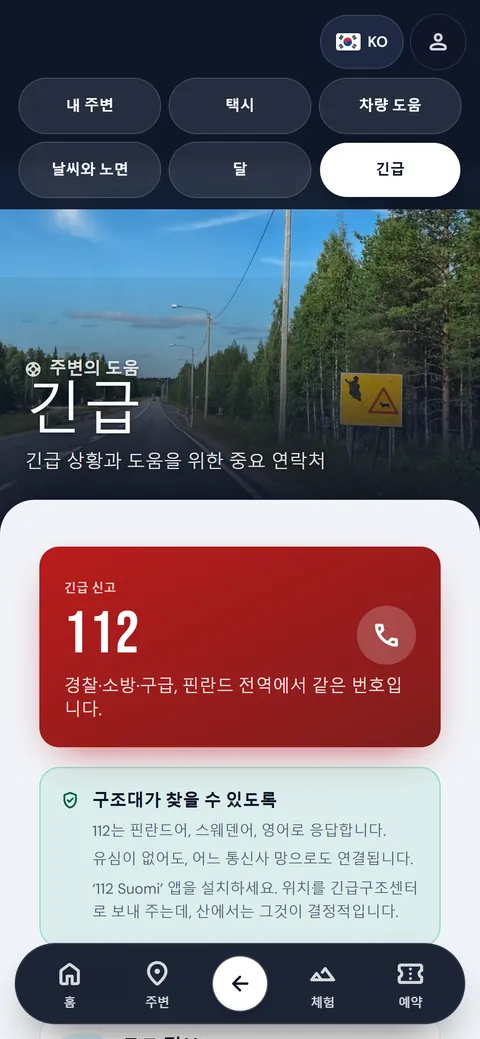
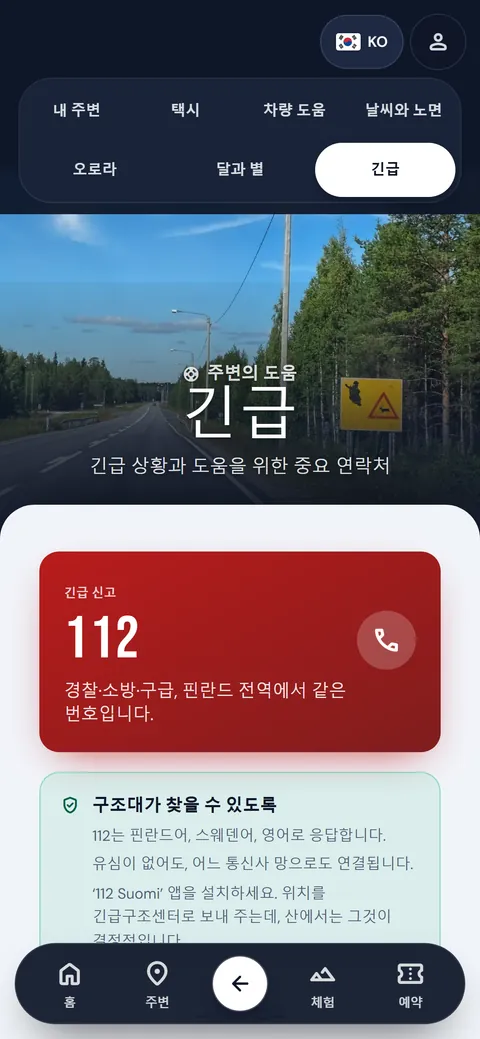
Appimainos: korean kuvat uudelleen, korea katkeaa vain sanojen välistä (SHOTS_V c1182a5a)
Appin korean rivinvaihto osui kahden hangul-tavun väliin 1 452 kertaa 15 näkymässä
(esim. "라플란드 전 / 통"); appi korjattu (00cd290, word-break: keep-all) ja korean
kuvat kaapattu uudelleen (lv-ops main a7fec074). rollout_apppromo.mjs.

diff --git a/src/shared/EcosystemMenu.tsx b/src/shared/EcosystemMenu.tsx
@@ -90,7 +90,7 @@ const APP_URL = 'https://app.laplandvibes.com/?install=1&utm_source=web&utm_medi
 // ?v= = appimainoksen kuvien tiiviste (shared/appPromo/screens.ts SHOTS_V). Kirjaimellinen rivi eikä tuonti: prebuild-sync
 // päivittää tämän tiedoston myös sivustoille, joilla src/shared/appPromo/ ei vielä ole (christmas 2.10.2026). lv-opsin
 // app_promo_shots.mjs ja rollout_apppromo.mjs pitävät rivin samana, gate:apppromo-kopiot vertaa.
-const APP_SHOT_V = '2b0e8525';
+const APP_SHOT_V = 'c1182a5a';
 const APP_SHOT_LANGS = new Set(['en', 'fi', 'sv', 'de', 'fr', 'es', 'it', 'nl', 'pt-BR', 'ja', 'ko', 'zh-CN']);
 const appShot = (L: string) => `/images/app-promo/now-${APP_SHOT_LANGS.has(L) ? L : 'en'}.webp?v=${APP_SHOT_V}`;
 

diff --git a/src/shared/appPromo/screens.ts b/src/shared/appPromo/screens.ts
@@ -63,7 +63,7 @@ export const FOCUS_SCREENS: Record<Focus, readonly Screen[]> = {
  * päivittää tämän rivin; gate:apppromo-kopiot tarkistaa että se vastaa shots/-kansiota. Uusi kaappaus samalla tiedostonimellä
  * ⇒ uusi ?v= ⇒ CDN ja selain hakevat uuden kuvan (version-images.mjs versioi vain kirjaimelliset polut, ei tätä).
  */
-export const SHOTS_V = '2b0e8525';
+export const SHOTS_V = 'c1182a5a';
 
 /** Kuvan polku sivustolla. Kieli = sivun lokaali (fi, de, pt-BR, zh-CN …). */
 export const shotSrc = (screen: Screen, lang: string): string => `/images/app-promo/${screen}-${lang}.webp?v=${SHOTS_V}`;
